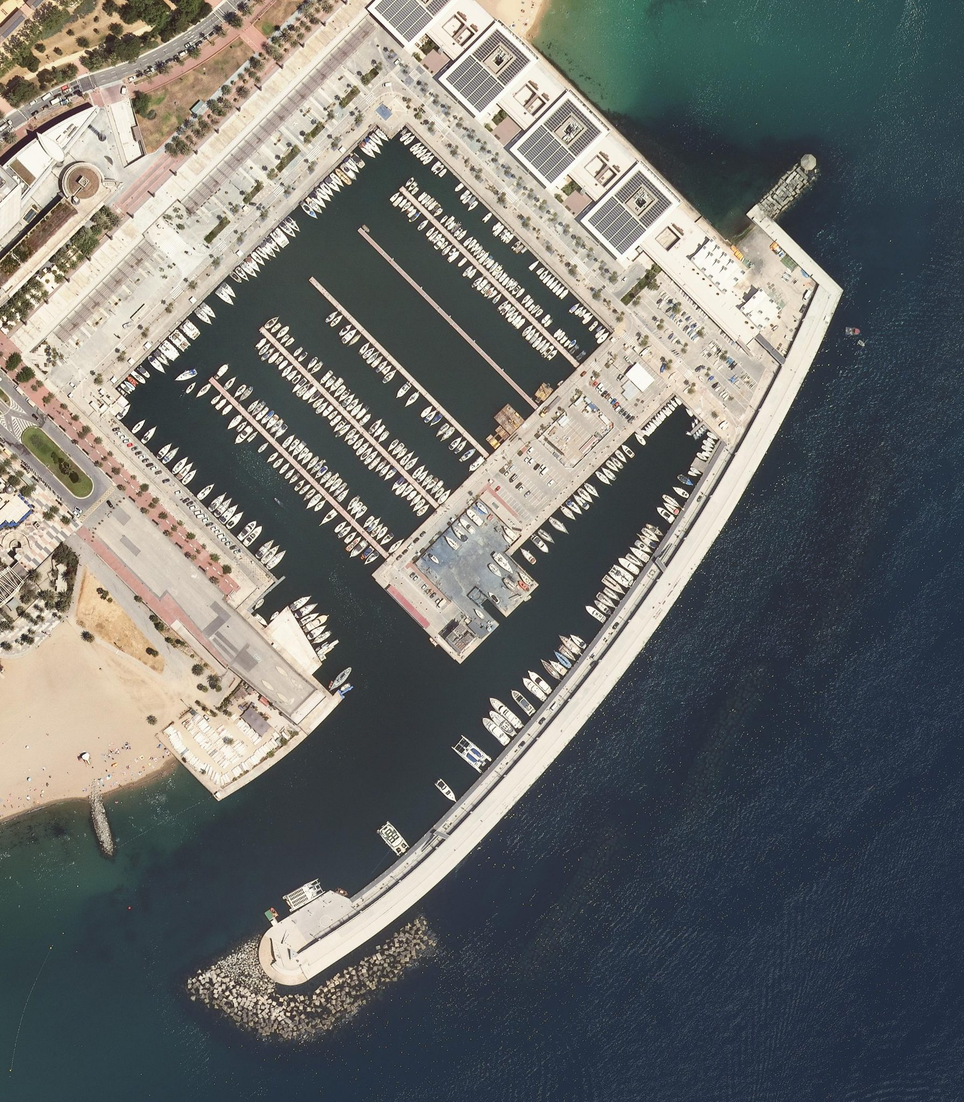
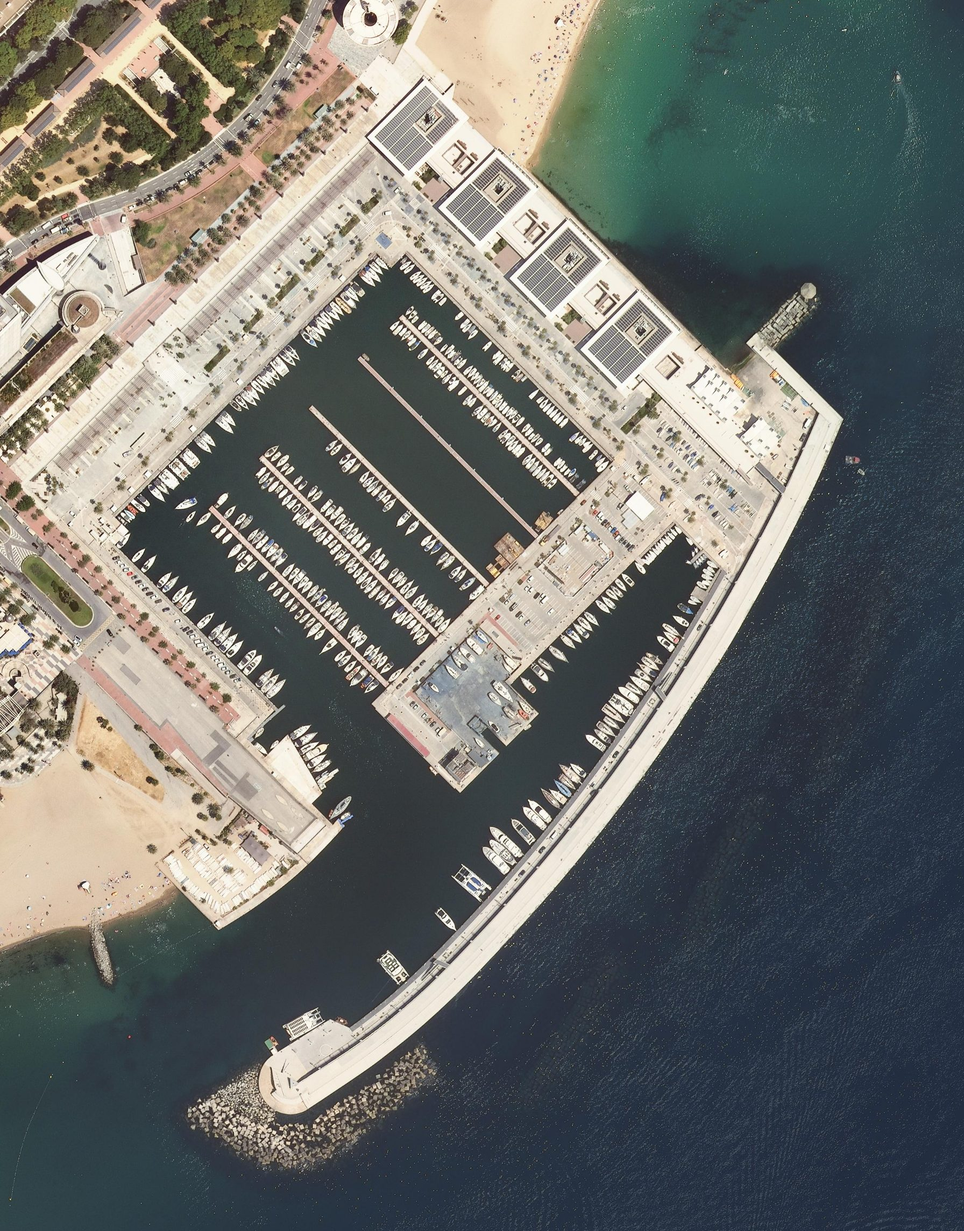
Port Olímpic: la ortofoto también en el muelle norte
El modelo de Google del muelle norte y del paseo queda al nivel del mar o
por debajo, y el mar 3D lo tapaba. La ortofoto llega ahora hasta ahí: los
edificios bajos del muelle, sin las torres ni la playa.

Refs #69

diff --git a/Assets/Terrain/PortGround/PortGroundEntity.js b/Assets/Terrain/PortGround/PortGroundEntity.js
@@ -13,20 +13,22 @@ import * as THREE from 'three';
 // height above the sea, and where in the box it is port, the rest keeping Google's 3D model:
 // - the port of Barcelona: south of an edge (the railway and the Ronda Litoral at the foot of
 //   Montjuïc), in pixels of a 928 x 1024 view of the orthophoto, west to east;
-// - the Port Olímpic: inside an outline (latitude, longitude) around its basin, pontoons and
-//   breakwater, leaving out its towers and the buildings around it.
+// - the Port Olímpic: inside an outline (latitude, longitude) around its basin, pontoons, quays,
+//   the low buildings on its north quay and its breakwater, leaving out its towers. Google's
+//   model of its quays and promenade lies at sea level and under it: the 3D sea covered them.
 const AREAS = [
   {
     name: 'port', south: 41.315, north: 41.3676, west: 2.125, east: 2.1886, quayHeight: 2,
     edgePixels: [[0, 440], [300, 345], [470, 290], [560, 200], [700, 0]],
   },
   {
-    name: 'olimpic', south: 41.3830, north: 41.3890, west: 2.1975, east: 2.2045, quayHeight: 1.5,
+    name: 'olimpic', south: 41.3830, north: 41.3897, west: 2.1975, east: 2.2045, quayHeight: 1.5,
     outline: [
-      [41.387242, 2.198359], [41.388385, 2.200234], [41.387330, 2.202578], [41.387740, 2.202969],
-      [41.388180, 2.203516], [41.387418, 2.203672], [41.385719, 2.202891], [41.384313, 2.201562],
-      [41.383844, 2.200781], [41.383375, 2.200625], [41.383375, 2.198906], [41.383727, 2.198828],
-      [41.384078, 2.199375], [41.385133, 2.200000], [41.385719, 2.199375], [41.386539, 2.198281],
+      [41.387236, 2.198354], [41.388856, 2.199231], [41.389168, 2.200000], [41.389432, 2.200769],
+      [41.388136, 2.202262], [41.388160, 2.203000], [41.388184, 2.203523], [41.387416, 2.203677],
+      [41.385724, 2.202892], [41.384308, 2.201569], [41.383840, 2.200785], [41.383372, 2.200631],
+      [41.383372, 2.198908], [41.383732, 2.198831], [41.384080, 2.199369], [41.385136, 2.200000],
+      [41.385724, 2.199369], [41.386540, 2.198277],
     ],
   },
 ];

diff --git a/tools/orto_port.py b/tools/orto_port.py
@@ -15,7 +15,7 @@ AREAS = {
     'port': dict(box=(41.315, 41.3676, 2.125, 2.1886), size=(3712, 4096), opening=2, land=3000, water=6000),
     # ~0.33 m a pixel: the pontoons (a few metres wide) and the moored boats stay
     # Its basin, sheltered, is dark grey-green rather than blue: water too, below `dark`
-    'olimpic': dict(box=(41.3830, 41.3890, 2.1975, 2.2045), size=(1792, 2048), opening=1, land=150, water=3000, dark=110),
+    'olimpic': dict(box=(41.3830, 41.3897, 2.1975, 2.2045), size=(1792, 2288), opening=1, land=150, water=3000, dark=110),
 }
 name, out = (sys.argv[1], sys.argv[2]) if len(sys.argv) > 2 else ('port', sys.argv[1])
 area = AREAS[name]
